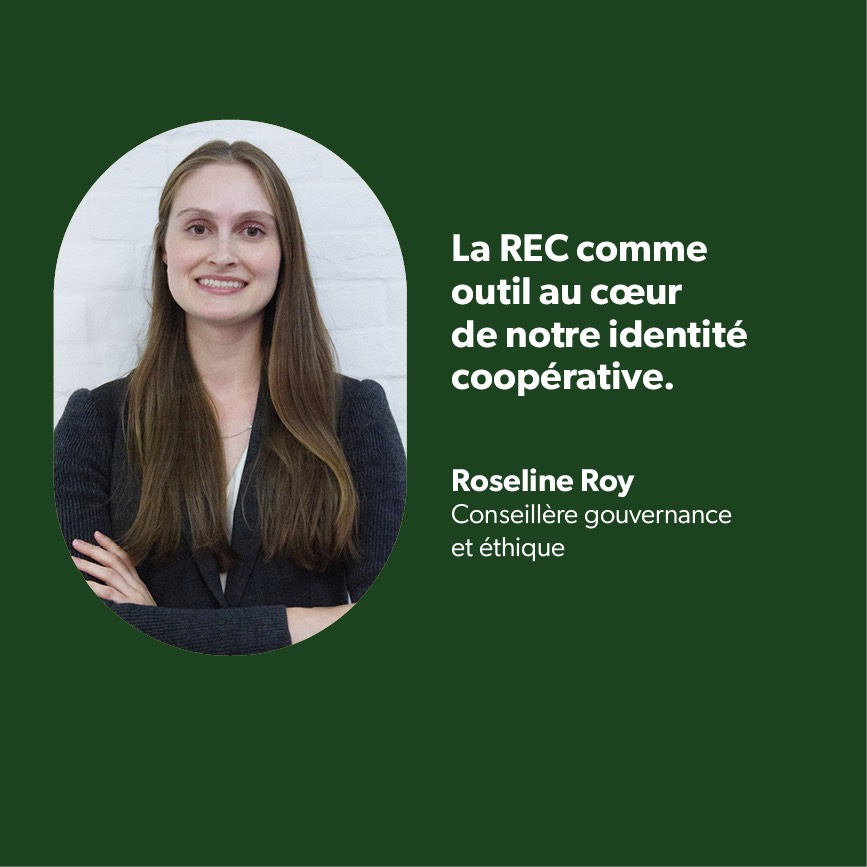
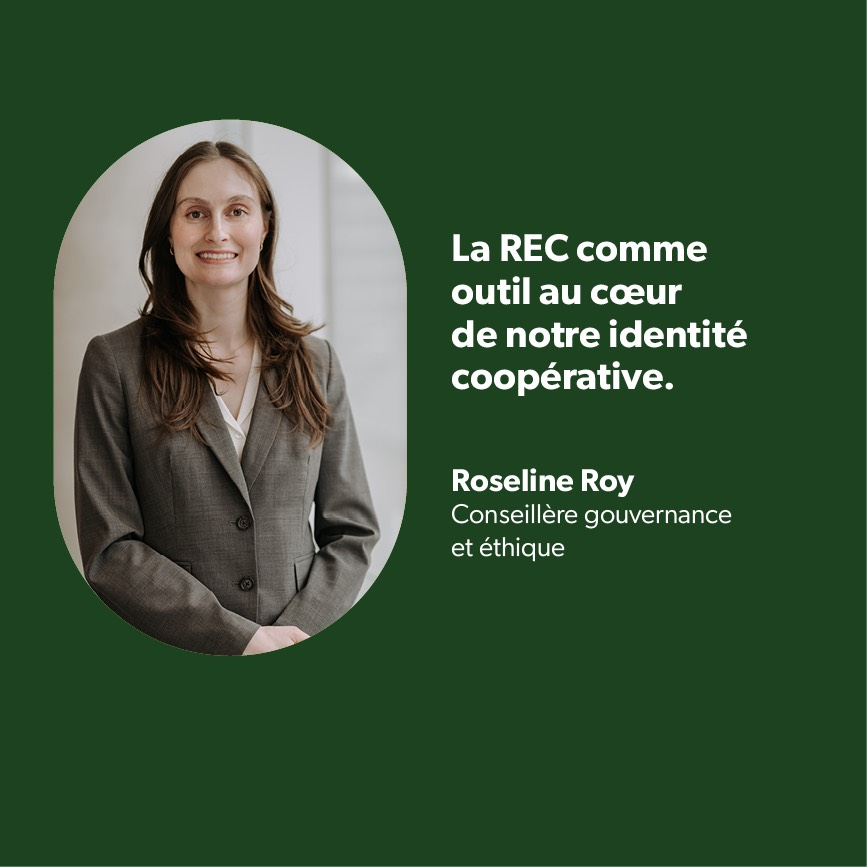
V3

Changed region(s): [[0.0623, 0.1246, 0.4671, 0.7785]]

diff --git a/index.hyperesources/index_hype_generated_script.js b/index.hyperesources/index_hype_generated_script.js
@@ -4,4 +4,4 @@
 !1)try{for(var c=document.getElementsByTagName("script"),a=0;a<c.length;a++){var d=c[a].src,b=null!=d?d.indexOf("/index_hype_generated_script.js"):-1;if(-1!=b){l=d.substr(0,b);break}}}catch(p){}c=null==navigator.userAgentData&&navigator.userAgent.match(/MSIE (\d+\.\d+)/);c=parseFloat(c&&c[1])||null;d=!0==(null!=window.HYPE_772F||null!=window.HYPE_dtl_772F)||false==!0||null!=c&&10>c;a=!0==d?"HYPE-772.full.min.js":"HYPE-772.thin.min.js";c=!0==d?"F":"T";
 d=d?"":"";if(false==!1&&(a=k("HYPE_772"+c,"HYPE_dtl_772"+c,a,d),false==!0&&(a=a||k("HYPE_w_772","HYPE_wdtl_772","HYPE-772.waypoints.min.js","")),false==!0&&(a=a||k("Matter","HYPE_pdtl_772","HYPE-772.physics.min.js","")),a))return;d=window.HYPE.documents;if(null!=d[f]){b=1;a=f;do f=""+a+"-"+b++;while(null!=d[f]);for(var e=
 document.getElementsByTagName("div"),b=!1,a=0;a<e.length;a++)if(e[a].id==g&&null==e[a].getAttribute("HYP_dn")){var b=1,h=g;do g=""+h+"-"+b++;while(null!=document.getElementById(g));e[a].id=g;b=!0;break}if(!1==b)return}b=[];b=[{name:"untitledFunction",source:"function(hypeDocument, element, event) {\thypeDocument.goToTimeInTimelineNamed(2, 'carouselTimeline');\n\n\t\n}",identifier:"89"}];e={};h={};for(a=0;a<b.length;a++)try{h[b[a].identifier]=b[a].name,e[b[a].name]=eval("(function(){return "+b[a].source+"})();")}catch(n){window.console&&window.console.log(n),e[b[a].name]=function(){}}c=new window["HYPE_772"+c](f,g,{"10":{p:1,n:"REC6.jpg",g:"68",o:true,t:"@1x"},"2":{p:1,n:"REC2.jpg",g:"76",o:true,t:"@1x"},"15":{p:1,n:"REC_2x.jpg",g:"78",o:true,t:"@2x"},"-2":{n:"blank.gif"},"3":{p:1,n:"REC2_2x.jpg",g:"76",o:true,t:"@2x"},"11":{p:1,n:"REC6_2x.jpg",g:"68",o:true,t:"@2x"},"4":{p:1,n:"REC7.jpg",g:"66",o:true,t:"@1x"},"5":{p:1,n:"REC7_2x.jpg",g:"66",o:true,t:"@2x"},"12":{p:1,n:"REC3.jpg",g:"74",o:true,t:"@1x"},"6":{p:1,n:"REC5.jpg",g:"70",o:true,t:"@1x"},"13":{p:1,n:"REC3_2x.jpg",g:"74",o:true,t:"@2x"},"7":{p:1,n:"REC5_2x.jpg",g:"70",o:true,t:"@2x"},"-1":{n:"PIE.htc"},"0":{p:1,n:"right-arrow.png",g:"168",o:true,t:"@1x"},"8":{p:1,n:"REC4.jpg",g:"72",o:true,t:"@1x"},"14":{p:1,n:"REC.jpg",g:"78",o:true,t:"@1x"},"1":{p:1,n:"right-arrow_2x.png",g:"168",o:true,t:"@2x"},"9":{p:1,n:"REC4_2x.jpg",g:"72",o:true,t:"@2x"}},
-l,[],e,[{n:"Untitled Scene",o:"1",X:[0]}],[{o:"3",p:"600px",cA:false,Y:650,Z:650,L:[],c:"#FFF",bY:1,d:650,U:{},T:{"63":{q:false,z:6.01,i:"63",n:"Carousel timeline",a:[{f:"c",y:0,z:1,i:"a",e:-650,s:0,o:"193"},{f:"c",y:0,z:1,i:"e",e:1,s:0.5,o:"185"},{f:"c",y:0,z:1,i:"e",e:0.5,s:1.5,o:"187"},{f:"c",y:0,z:1,i:"e",e:1,s:-1,o:"186"},{f:"c",p:2,y:1,z:1,i:"ActionHandler",e:{a:[{p:7,b:"63",symbolOid:"2"}]},s:{a:[{p:7,b:"63",symbolOid:"2"}]},o:"63"},{f:"c",y:1,z:1,i:"a",e:-1300,s:-650,o:"193"},{f:"c",y:1,z:1,i:"e",e:1,s:0.5,o:"189"},{f:"c",y:1,z:1,i:"e",e:0.5,s:1,o:"185"},{y:1,i:"e",s:0.5,z:0,o:"187",f:"c"},{y:1,i:"e",s:1,z:0,o:"186",f:"c"},{f:"c",p:2,y:2,z:1,i:"ActionHandler",e:{a:[{p:7,b:"63",symbolOid:"2"}]},s:{a:[{p:7,b:"63",symbolOid:"2"}]},o:"63"},{f:"c",y:2,z:1,i:"a",e:-1950,s:-1300,o:"193"},{f:"c",y:2,z:1,i:"e",e:1,s:0.5,o:"190"},{f:"c",y:2,z:1.01,i:"e",e:0.5,s:1,o:"189"},{y:2,i:"e",s:0.5,z:0,o:"185",f:"c"},{f:"c",p:2,y:3,z:1.01,i:"ActionHandler",e:{a:[{p:7,b:"63",symbolOid:"2"}]},s:{a:[{p:7,b:"63",symbolOid:"2"}]},o:"63"},{f:"c",y:3,z:1.01,i:"a",e:-2600,s:-1950,o:"193"},{f:"c",y:3,z:1,i:"e",e:1,s:0.5,o:"184"},{f:"c",y:3,z:1,i:"e",e:0.5,s:1,o:"190"},{y:3.01,i:"e",s:0.5,z:0,o:"189",f:"c"},{f:"c",y:4,z:1.01,i:"e",e:1,s:0.5,o:"188"},{f:"c",y:4,z:1,i:"e",e:0.5,s:1,o:"184"},{y:4,i:"e",s:0.5,z:0,o:"190",f:"c"},{f:"c",p:2,y:4.01,z:0.28,i:"ActionHandler",e:{a:[{p:7,b:"63",symbolOid:"2"}]},s:{a:[{p:7,b:"63",symbolOid:"2"}]},o:"63"},{f:"c",y:4.01,z:0.29,i:"a",e:-3250,s:-2600,o:"193"},{f:"c",p:2,y:4.29,z:1.01,i:"ActionHandler",e:{a:[{p:7,b:"63",symbolOid:"2"}]},s:{a:[{p:7,b:"63",symbolOid:"2"}]},o:"63"},{f:"c",y:5,z:1,i:"a",e:-3895,s:-3250,o:"193"},{f:"c",y:5,z:1.01,i:"e",e:1,s:0.5,o:"191"},{f:"c",y:5,z:1,i:"e",e:0,s:1,o:"192"},{y:5,i:"e",s:0.5,z:0,o:"184",f:"c"},{f:"c",y:5.01,z:0.29,i:"e",e:0.5,s:1,o:"188"},{f:"c",p:2,y:6,z:0,i:"ActionHandler",s:{a:[{p:7,b:"63",symbolOid:"2"}]},o:"63"},{y:6,i:"a",s:-3895,z:0,o:"193",f:"c"},{y:6,i:"e",s:0,z:0,o:"192",f:"c"},{y:6,i:"e",s:0.5,z:0,o:"188",f:"c"},{y:6.01,i:"e",s:1,z:0,o:"191",f:"c"}],f:30,b:[]},kTimelineDefaultIdentifier:{q:false,z:0,i:"kTimelineDefaultIdentifier",n:"Main Timeline",a:[],f:30,b:[]}},bZ:180,O:["203","202","183","195","193","182","201","194","199","197","196","200","198","186","187","185","189","190","184","188","191","192"],n:"Untitled Layout","_":0,v:{"200":{h:"68",p:"no-repeat",x:"visible",a:3247,dB:"img",q:"100% 100%",j:"absolute",r:"inline",z:5,bF:"193",b:0,d:649.92,k:"div",c:649.92},"194":{h:"76",p:"no-repeat",x:"visible",a:650,dB:"img",q:"100% 100%",j:"absolute",r:"inline",z:9,bF:"193",b:0,d:649.92,k:"div",c:649.92},"186":{p:"no-repeat",c:47,q:"100% 100%",d:47,r:"inline",cQ:0.7,e:0,aW:0,f:180,cR:0.7,aP:"pointer",h:"168",bF:"183",j:"absolute",x:"visible",k:"div",dB:"img",z:7,a:185,b:578},"199":{h:"74",p:"no-repeat",x:"visible",a:1299,dB:"img",q:"100% 100%",j:"absolute",r:"inline",z:8,bF:"193",b:0,d:649.92,k:"div",c:649.92},"190":{b:581,z:11,K:"Solid",c:35,L:"Solid",d:35,M:2,e:0.5,cQ:0.5,N:2,dB:"button",O:2,cR:0.5,g:"#FFF",P:2,bF:"183",j:"absolute",k:"div",aI:"50%",aJ:"50%",aK:"50%",aL:"50%",A:"#FFF",B:"#FFF",r:"inline",C:"#FFF",cY:"0",D:"#FFF",aP:"pointer",x:"visible",I:"Solid",a:317,J:"Solid"},"182":{bN:{a:[{p:10,y:false,c:0,A:0,K:1,symbolOid:"2",b:"63"}]},x:"hidden",a:0,dB:"button",b:0,j:"absolute",aA:{a:[{p:0}]},z:4,k:"div",d:650,c:650,cQ:1.01,aP:"pointer",cR:1.01},"201":{c:307,d:648,I:"None",J:"None",K:"None",L:"None",aP:"pointer",M:0,N:0,A:"#FFF",x:"visible",j:"absolute",B:"#FFF",aA:{a:[{b:"63",p:8,z:false,symbolOid:"2",J:false}]},O:0,C:"#FFF",z:18,dB:"button",D:"#FFF",P:0,k:"div",a:343,b:0},"195":{h:"78",p:"no-repeat",x:"visible",a:0,dB:"img",q:"100% 100%",j:"absolute",r:"inline",z:10,bF:"193",b:0,d:649.92,k:"div",c:649.92},"187":{c:35,d:35,r:"inline",I:"Solid",e:1,J:"Solid",cQ:0.5,K:"Solid",cR:0.5,g:"#FFF",L:"Solid",aP:"pointer",M:2,bF:"183",N:2,j:"absolute",x:"visible",O:2,B:"#FFF",P:2,A:"#FFF",C:"#FFF",z:14,dB:"button",D:"#FFF",aK:"50%",aJ:"50%",k:"div",aI:"50%",a:224,aL:"50%",b:581},"191":{b:581,z:8,K:"Solid",c:35,L:"Solid",d:35,M:2,e:0.5,cQ:0.5,N:2,dB:"button",O:2,cR:0.5,g:"#FFF",P:2,bF:"183",j:"absolute",k:"div",aI:"50%",aJ:"50%",aK:"50%",aL:"50%",A:"#FFF",B:"#FFF",r:"inline",C:"#FFF",cY:"0",D:"#FFF",aP:"pointer",x:"visible",I:"Solid",a:410,J:"Solid"},"183":{x:"hidden",k:"div",c:4548,d:650,z:2,a:1,j:"absolute",bF:"182",b:0},"202":{c:307,d:648,I:"None",J:"None",K:"None",L:"None",aP:"pointer",M:0,N:0,A:"#FFF",x:"visible",j:"absolute",B:"#FFF",aA:{a:[{b:"63",p:8,z:true,symbolOid:"2",J:false}]},O:0,C:"#FFF",z:17,dB:"button",D:"#FFF",P:0,k:"div",a:0,b:0},"196":{h:"70",p:"no-repeat",x:"visible",a:2597,dB:"img",q:"100% 100%",j:"absolute",r:"inline",z:6,bF:"193",b:0,d:649.92,k:"div",c:649.92},"188":{b:581,z:9,K:"Solid",c:35,L:"Solid",d:35,M:2,e:0.5,cQ:0.5,N:2,dB:"button",O:2,cR:0.5,g:"#FFF",P:2,bF:"183",j:"absolute",k:"div",aI:"50%",aJ:"50%",aK:"50%",aL:"50%",A:"#FFF",B:"#FFF",r:"inline",C:"#FFF",cY:"0",D:"#FFF",aP:"pointer",x:"visible",I:"Solid",a:379,J:"Solid"},"192":{h:"168",p:"no-repeat",x:"visible",a:438,q:"100% 100%",b:578,j:"absolute",r:"inline",bF:"183",z:6,dB:"img",d:47,k:"div",cQ:0.7,e:1,c:47,aP:"pointer",cR:0.7},"184":{b:581,z:10,K:"Solid",c:35,L:"Solid",d:35,M:2,e:0.5,cQ:0.5,N:2,dB:"button",O:2,cR:0.5,g:"#FFF",P:2,bF:"183",j:"absolute",k:"div",aI:"50%",aJ:"50%",aK:"50%",aL:"50%",A:"#FFF",B:"#FFF",r:"inline",C:"#FFF",cY:"0",D:"#FFF",aP:"pointer",x:"visible",I:"Solid",a:348,J:"Solid"},"203":{c:656,d:656,I:"None",J:"None",K:"None",g:"#1D421F",L:"None",aP:"pointer",M:0,N:0,A:"#FFF",x:"visible",j:"absolute",B:"#FFF",P:0,O:0,C:"#FFF",z:1,dB:"button",D:"#FFF",aA:{a:[{b:"63",p:8,z:false,symbolOid:"2",J:false}]},k:"div",a:-6,b:0},"197":{h:"72",p:"no-repeat",x:"visible",a:1948,dB:"img",q:"100% 100%",j:"absolute",r:"inline",z:7,bF:"193",b:0,d:649.92,k:"div",c:649.92},"189":{b:581,z:12,K:"Solid",c:35,L:"Solid",d:35,M:2,e:0.5,cQ:0.5,N:2,dB:"button",O:2,cR:0.5,g:"#FFF",P:2,bF:"183",j:"absolute",k:"div",aI:"50%",aJ:"50%",aK:"50%",aL:"50%",A:"#FFF",B:"#FFF",r:"inline",C:"#FFF",cY:"0",D:"#FFF",aP:"pointer",x:"visible",I:"Solid",a:286,J:"Solid"},"193":{x:"visible",b:0,k:"div",c:650,tY:0.5,d:650,z:1,a:0,bF:"182",j:"absolute",tX:0.5},"185":{b:581,z:13,K:"Solid",c:35,L:"Solid",d:35,M:2,e:0.5,cQ:0.5,N:2,dB:"button",O:2,cR:0.5,g:"#FFF",P:2,bF:"183",j:"absolute",k:"div",aI:"50%",aJ:"50%",aK:"50%",aL:"50%",A:"#FFF",B:"#FFF",r:"inline",C:"#FFF",cY:"0",D:"#FFF",aP:"pointer",x:"visible",I:"Solid",a:255,J:"Solid"},"198":{h:"66",p:"no-repeat",x:"visible",a:3896,dB:"img",q:"100% 100%",j:"absolute",r:"inline",z:4,bF:"193",b:0,d:649.92,k:"div",c:649.92}}}],{},h,{},null,false,true,-1,true,true,false,true,true);d[f]=c.API;document.getElementById(g).setAttribute("HYP_dn",f);c.z_o(this.body)})();})();
+l,[],e,[{n:"Untitled Scene",o:"1",X:[0]}],[{o:"3",p:"600px",cA:false,Y:650,Z:650,L:[],c:"#FFF",bY:1,d:650,U:{},T:{"63":{q:false,z:6.01,i:"63",n:"Carousel timeline",a:[{f:"c",y:0,z:1,i:"a",e:-650,s:0,o:"196"},{f:"c",y:0,z:1,i:"e",e:1,s:0.5,o:"188"},{f:"c",y:0,z:1,i:"e",e:0.5,s:1.5,o:"190"},{f:"c",y:0,z:1,i:"e",e:1,s:-1,o:"189"},{f:"c",p:2,y:1,z:1,i:"ActionHandler",e:{a:[{p:7,b:"63",symbolOid:"2"}]},s:{a:[{p:7,b:"63",symbolOid:"2"}]},o:"63"},{f:"c",y:1,z:1,i:"a",e:-1300,s:-650,o:"196"},{f:"c",y:1,z:1,i:"e",e:1,s:0.5,o:"192"},{f:"c",y:1,z:1,i:"e",e:0.5,s:1,o:"188"},{y:1,i:"e",s:0.5,z:0,o:"190",f:"c"},{y:1,i:"e",s:1,z:0,o:"189",f:"c"},{f:"c",p:2,y:2,z:1,i:"ActionHandler",e:{a:[{p:7,b:"63",symbolOid:"2"}]},s:{a:[{p:7,b:"63",symbolOid:"2"}]},o:"63"},{f:"c",y:2,z:1,i:"a",e:-1950,s:-1300,o:"196"},{f:"c",y:2,z:1,i:"e",e:1,s:0.5,o:"193"},{f:"c",y:2,z:1.01,i:"e",e:0.5,s:1,o:"192"},{y:2,i:"e",s:0.5,z:0,o:"188",f:"c"},{f:"c",p:2,y:3,z:1.01,i:"ActionHandler",e:{a:[{p:7,b:"63",symbolOid:"2"}]},s:{a:[{p:7,b:"63",symbolOid:"2"}]},o:"63"},{f:"c",y:3,z:1.01,i:"a",e:-2600,s:-1950,o:"196"},{f:"c",y:3,z:1,i:"e",e:1,s:0.5,o:"187"},{f:"c",y:3,z:1,i:"e",e:0.5,s:1,o:"193"},{y:3.01,i:"e",s:0.5,z:0,o:"192",f:"c"},{f:"c",y:4,z:1.01,i:"e",e:1,s:0.5,o:"191"},{f:"c",y:4,z:1,i:"e",e:0.5,s:1,o:"187"},{y:4,i:"e",s:0.5,z:0,o:"193",f:"c"},{f:"c",p:2,y:4.01,z:0.28,i:"ActionHandler",e:{a:[{p:7,b:"63",symbolOid:"2"}]},s:{a:[{p:7,b:"63",symbolOid:"2"}]},o:"63"},{f:"c",y:4.01,z:0.29,i:"a",e:-3250,s:-2600,o:"196"},{f:"c",p:2,y:4.29,z:1.01,i:"ActionHandler",e:{a:[{p:7,b:"63",symbolOid:"2"}]},s:{a:[{p:7,b:"63",symbolOid:"2"}]},o:"63"},{f:"c",y:5,z:1,i:"a",e:-3895,s:-3250,o:"196"},{f:"c",y:5,z:1.01,i:"e",e:1,s:0.5,o:"194"},{f:"c",y:5,z:1,i:"e",e:0,s:1,o:"195"},{y:5,i:"e",s:0.5,z:0,o:"187",f:"c"},{f:"c",y:5.01,z:0.29,i:"e",e:0.5,s:1,o:"191"},{f:"c",p:2,y:6,z:0,i:"ActionHandler",s:{a:[{p:7,b:"63",symbolOid:"2"}]},o:"63"},{y:6,i:"a",s:-3895,z:0,o:"196",f:"c"},{y:6,i:"e",s:0,z:0,o:"195",f:"c"},{y:6,i:"e",s:0.5,z:0,o:"191",f:"c"},{y:6.01,i:"e",s:1,z:0,o:"194",f:"c"}],f:30,b:[]},kTimelineDefaultIdentifier:{q:false,z:0,i:"kTimelineDefaultIdentifier",n:"Main Timeline",a:[],f:30,b:[]}},bZ:180,O:["182","184","186","198","196","185","183","197","202","200","199","203","201","189","190","188","192","193","187","191","194","195"],n:"Untitled Layout","_":0,v:{"200":{h:"72",p:"no-repeat",x:"visible",a:1948,dB:"img",q:"100% 100%",j:"absolute",r:"inline",z:7,bF:"196",b:0,d:649.92,k:"div",c:649.92},"194":{b:581,z:8,K:"Solid",c:35,L:"Solid",d:35,M:2,e:0.5,cQ:0.5,N:2,dB:"button",O:2,cR:0.5,g:"#FFF",P:2,bF:"186",j:"absolute",k:"div",aI:"50%",aJ:"50%",aK:"50%",aL:"50%",A:"#FFF",B:"#FFF",r:"inline",C:"#FFF",cY:"0",D:"#FFF",aP:"pointer",x:"visible",I:"Solid",a:410,J:"Solid"},"186":{x:"hidden",k:"div",c:4548,d:650,z:2,a:1,j:"absolute",bF:"185",b:0},"199":{h:"70",p:"no-repeat",x:"visible",a:2597,dB:"img",q:"100% 100%",j:"absolute",r:"inline",z:6,bF:"196",b:0,d:649.92,k:"div",c:649.92},"190":{c:35,d:35,r:"inline",I:"Solid",e:1,J:"Solid",cQ:0.5,K:"Solid",cR:0.5,g:"#FFF",L:"Solid",aP:"pointer",M:2,bF:"186",N:2,j:"absolute",x:"visible",O:2,B:"#FFF",P:2,A:"#FFF",C:"#FFF",z:14,dB:"button",D:"#FFF",aK:"50%",aJ:"50%",k:"div",aI:"50%",a:224,aL:"50%",b:581},"182":{c:656,d:656,I:"None",J:"None",K:"None",g:"#1D421F",L:"None",aP:"pointer",M:0,N:0,A:"#FFF",x:"visible",j:"absolute",B:"#FFF",P:0,O:0,C:"#FFF",z:1,dB:"button",D:"#FFF",aA:{a:[{b:"63",p:8,z:false,symbolOid:"2",J:false}]},k:"div",a:-6,b:0},"201":{h:"66",p:"no-repeat",x:"visible",a:3896,dB:"img",q:"100% 100%",j:"absolute",r:"inline",z:4,bF:"196",b:0,d:649.92,k:"div",c:649.92},"195":{h:"168",p:"no-repeat",x:"visible",a:438,q:"100% 100%",b:578,j:"absolute",r:"inline",bF:"186",z:6,dB:"img",d:47,k:"div",cQ:0.7,e:1,c:47,aP:"pointer",cR:0.7},"187":{b:581,z:10,K:"Solid",c:35,L:"Solid",d:35,M:2,e:0.5,cQ:0.5,N:2,dB:"button",O:2,cR:0.5,g:"#FFF",P:2,bF:"186",j:"absolute",k:"div",aI:"50%",aJ:"50%",aK:"50%",aL:"50%",A:"#FFF",B:"#FFF",r:"inline",C:"#FFF",cY:"0",D:"#FFF",aP:"pointer",x:"visible",I:"Solid",a:348,J:"Solid"},"191":{b:581,z:9,K:"Solid",c:35,L:"Solid",d:35,M:2,e:0.5,cQ:0.5,N:2,dB:"button",O:2,cR:0.5,g:"#FFF",P:2,bF:"186",j:"absolute",k:"div",aI:"50%",aJ:"50%",aK:"50%",aL:"50%",A:"#FFF",B:"#FFF",r:"inline",C:"#FFF",cY:"0",D:"#FFF",aP:"pointer",x:"visible",I:"Solid",a:379,J:"Solid"},"183":{c:307,d:648,I:"None",J:"None",K:"None",L:"None",aP:"pointer",M:0,N:0,A:"#FFF",x:"visible",j:"absolute",B:"#FFF",aA:{a:[{b:"63",p:8,z:false,symbolOid:"2",J:false}]},O:0,C:"#FFF",z:18,dB:"button",D:"#FFF",P:0,k:"div",a:343,b:0},"202":{h:"74",p:"no-repeat",x:"visible",a:1299,dB:"img",q:"100% 100%",j:"absolute",r:"inline",z:8,bF:"196",b:0,d:649.92,k:"div",c:649.92},"196":{x:"visible",b:0,k:"div",c:650,tY:0.5,d:650,z:1,a:0,bF:"185",j:"absolute",tX:0.5},"188":{b:581,z:13,K:"Solid",c:35,L:"Solid",d:35,M:2,e:0.5,cQ:0.5,N:2,dB:"button",O:2,cR:0.5,g:"#FFF",P:2,bF:"186",j:"absolute",k:"div",aI:"50%",aJ:"50%",aK:"50%",aL:"50%",A:"#FFF",B:"#FFF",r:"inline",C:"#FFF",cY:"0",D:"#FFF",aP:"pointer",x:"visible",I:"Solid",a:255,J:"Solid"},"192":{b:581,z:12,K:"Solid",c:35,L:"Solid",d:35,M:2,e:0.5,cQ:0.5,N:2,dB:"button",O:2,cR:0.5,g:"#FFF",P:2,bF:"186",j:"absolute",k:"div",aI:"50%",aJ:"50%",aK:"50%",aL:"50%",A:"#FFF",B:"#FFF",r:"inline",C:"#FFF",cY:"0",D:"#FFF",aP:"pointer",x:"visible",I:"Solid",a:286,J:"Solid"},"184":{c:307,d:648,I:"None",J:"None",K:"None",L:"None",aP:"pointer",M:0,N:0,A:"#FFF",x:"visible",j:"absolute",B:"#FFF",aA:{a:[{b:"63",p:8,z:true,symbolOid:"2",J:false}]},O:0,C:"#FFF",z:17,dB:"button",D:"#FFF",P:0,k:"div",a:0,b:0},"203":{h:"68",p:"no-repeat",x:"visible",a:3247,dB:"img",q:"100% 100%",j:"absolute",r:"inline",z:5,bF:"196",b:0,d:649.92,k:"div",c:649.92},"197":{h:"76",p:"no-repeat",x:"visible",a:650,dB:"img",q:"100% 100%",j:"absolute",r:"inline",z:9,bF:"196",b:0,d:649.92,k:"div",c:649.92},"189":{p:"no-repeat",c:47,q:"100% 100%",d:47,r:"inline",cQ:0.7,e:0,aW:0,f:180,cR:0.7,aP:"pointer",h:"168",bF:"186",j:"absolute",x:"visible",k:"div",dB:"img",z:7,a:185,b:578},"193":{b:581,z:11,K:"Solid",c:35,L:"Solid",d:35,M:2,e:0.5,cQ:0.5,N:2,dB:"button",O:2,cR:0.5,g:"#FFF",P:2,bF:"186",j:"absolute",k:"div",aI:"50%",aJ:"50%",aK:"50%",aL:"50%",A:"#FFF",B:"#FFF",r:"inline",C:"#FFF",cY:"0",D:"#FFF",aP:"pointer",x:"visible",I:"Solid",a:317,J:"Solid"},"185":{bN:{a:[{p:10,y:false,c:0,A:0,K:1,symbolOid:"2",b:"63"}]},x:"hidden",a:0,dB:"button",b:0,j:"absolute",aA:{a:[{p:0}]},z:4,k:"div",d:650,c:650,cQ:1.01,aP:"pointer",cR:1.01},"198":{h:"78",p:"no-repeat",x:"visible",a:0,dB:"img",q:"100% 100%",j:"absolute",r:"inline",z:10,bF:"196",b:0,d:649.92,k:"div",c:649.92}}}],{},h,{},null,false,true,-1,true,true,false,true,true);d[f]=c.API;document.getElementById(g).setAttribute("HYP_dn",f);c.z_o(this.body)})();})();

diff --git a/index.html b/index.html
@@ -24,7 +24,7 @@
 	<!-- copy these lines to your document: -->
 
 	<div id="index_hype_container" class="HYPE_document" style="margin:auto;position:relative;width:650px;height:650px;overflow:hidden;">
-		<script type="text/javascript" charset="utf-8" src="index.hyperesources/index_hype_generated_script.js?10069"></script>
+		<script type="text/javascript" charset="utf-8" src="index.hyperesources/index_hype_generated_script.js?68787"></script>
 	</div>
 
 	<!-- end copy -->
